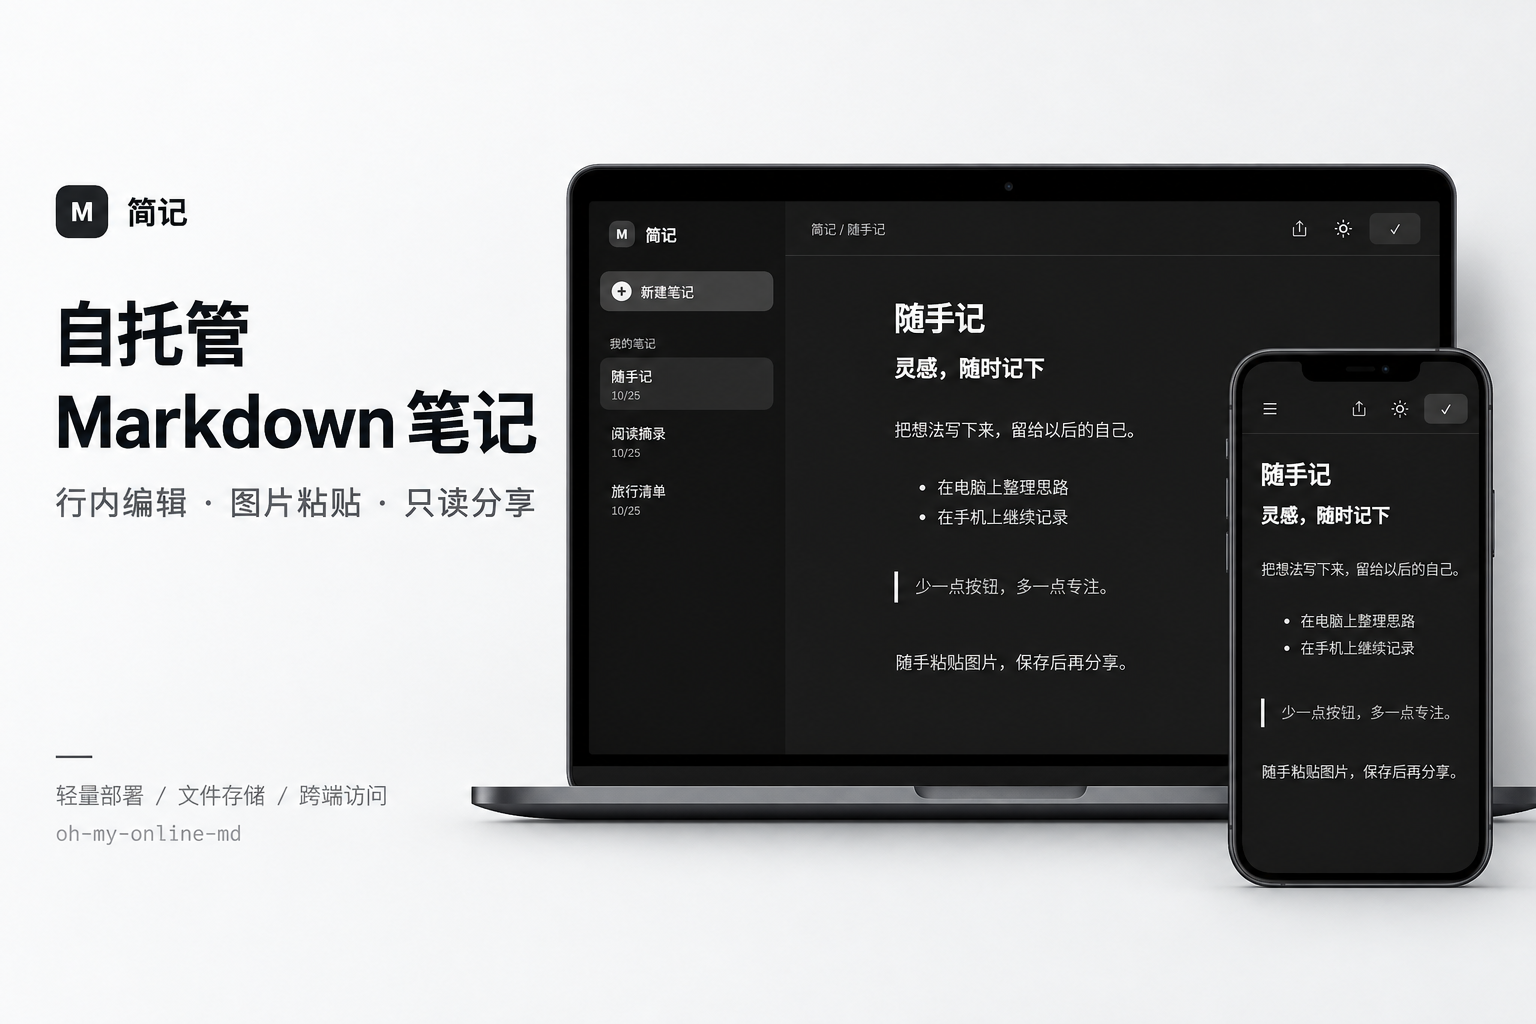
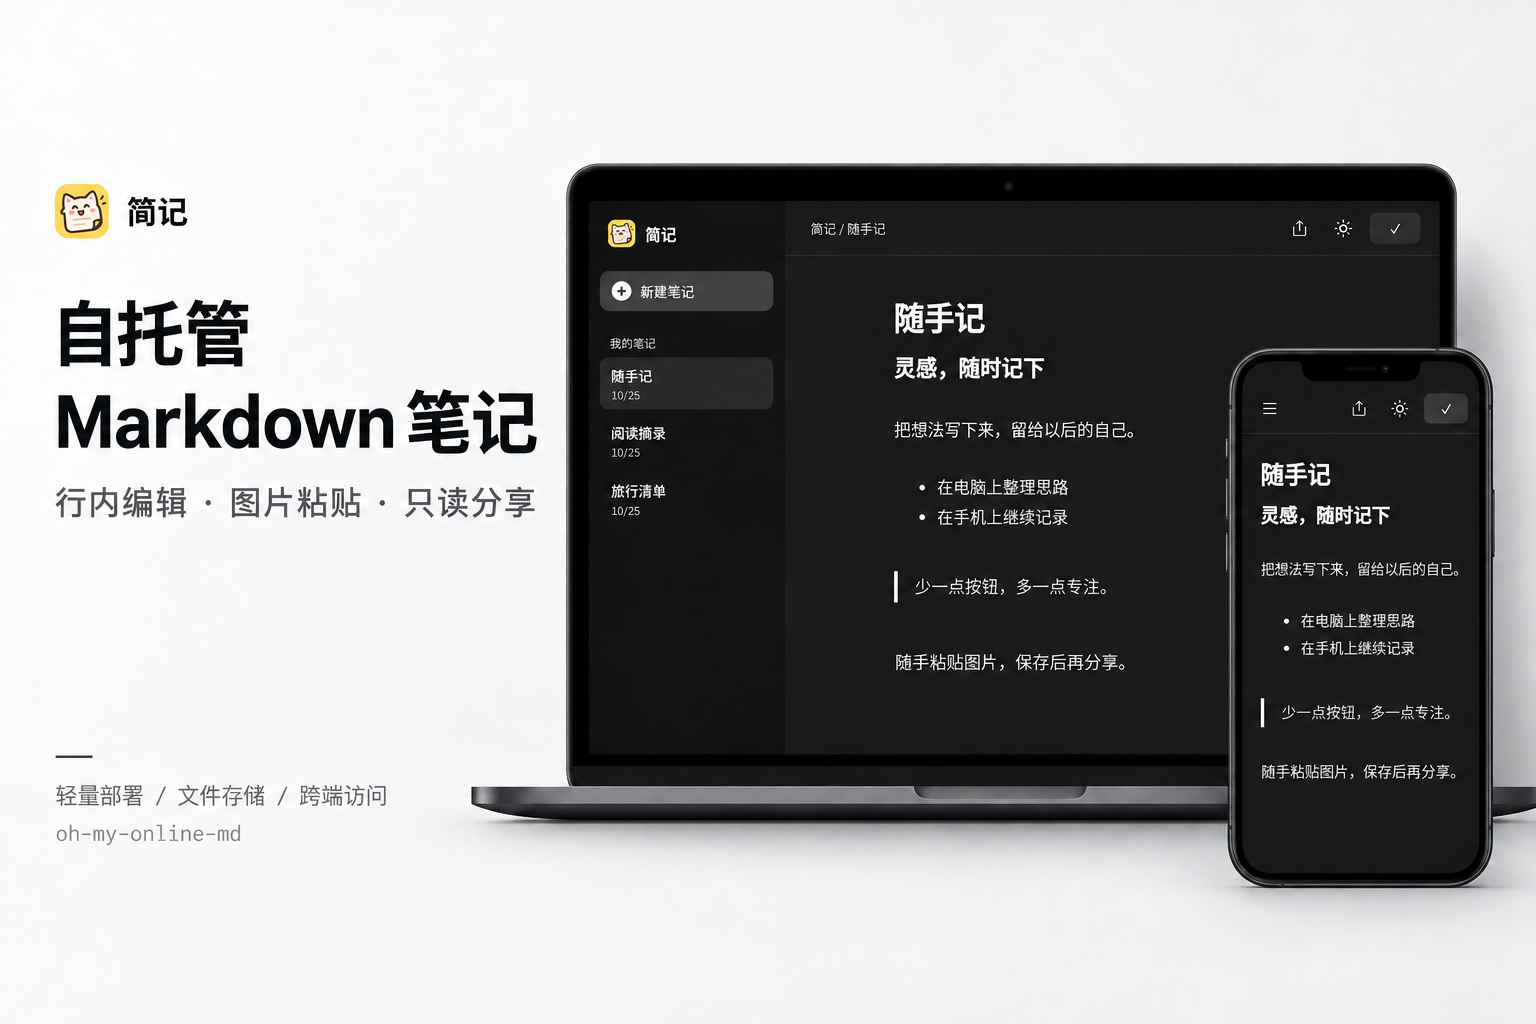
Update promotional artwork to the cat-ear note branding

diff --git a/docs/images/README.md b/docs/images/README.md
@@ -1,7 +1,7 @@
 # 项目图片
 
 - `desktop-light.png`、`desktop-dark.png`、`mobile-dark.png`：当前应用的实际界面截图，内容为演示笔记。
-- `promo.png`：根据桌面和移动界面生成的项目宣传图，使用内置 ImageGen 制作。
+- `promo.png`：根据桌面和移动界面生成的项目宣传图，使用内置 ImageGen 制作；主标识与设备内标识已同步为猫耳便签 Logo。
 - `promo.prompt.txt`：宣传图生成提示词，供后续维护参考。
 
 宣传图用于项目介绍；功能行为以程序与使用文档为准。
